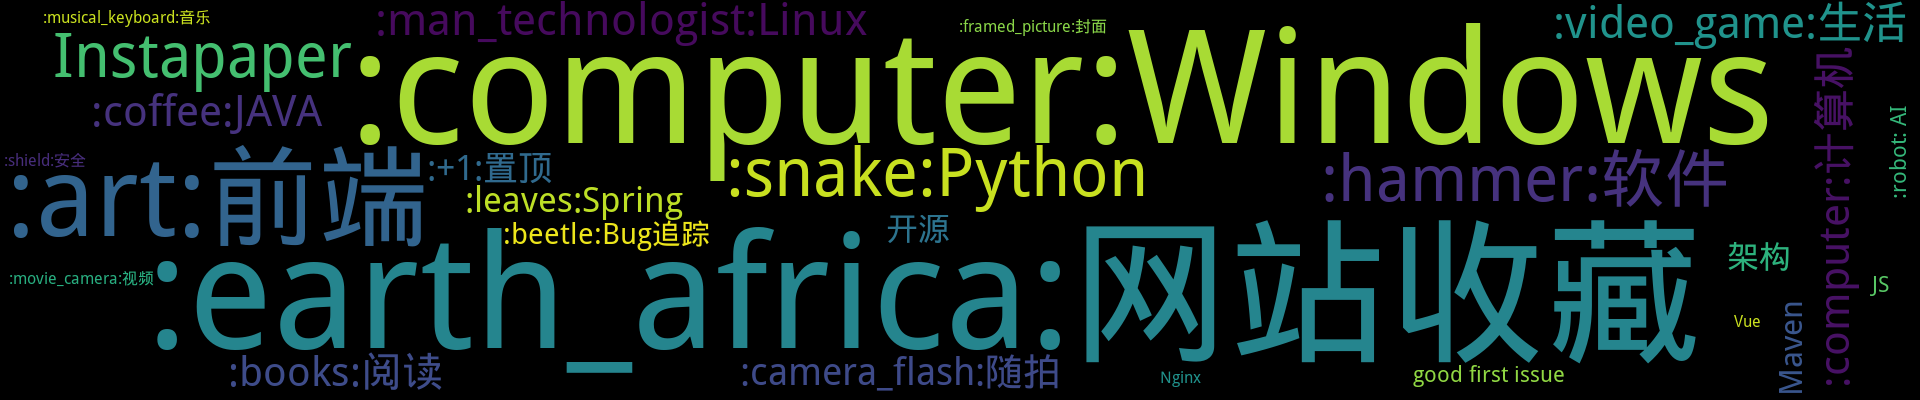
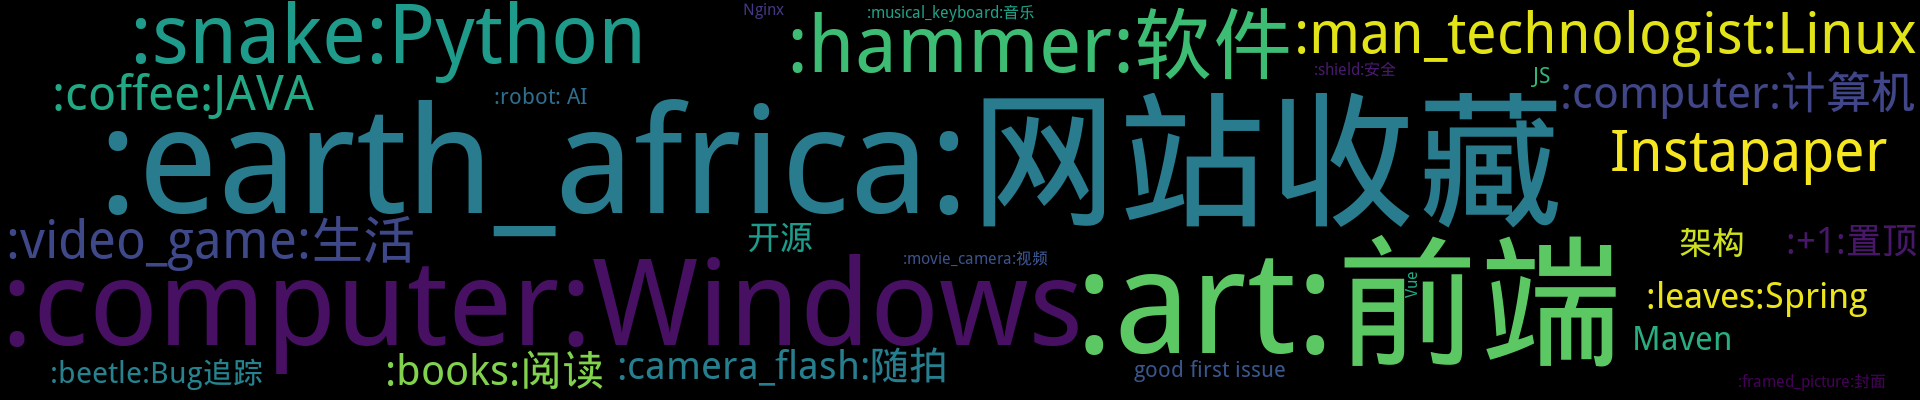
Update from Github Action

diff --git a/README.md b/README.md
@@ -3,7 +3,7 @@
 <p align='center'>
     <img src="https://badgen.net/badge/labels/27"/>
     <img src="https://badgen.net/github/issues/jwenjian/ghiblog"/>
-    <img src="https://badgen.net/badge/last-commit/2019-10-18 00:25:56"/>
+    <img src="https://badgen.net/badge/last-commit/2019-10-18 00:49:35"/>
     <img src="https://badgen.net/github/forks/jwenjian/ghiblog"/>
     <img src="https://badgen.net/github/stars/jwenjian/ghiblog"/>
     <img src="https://badgen.net/github/watchers/jwenjian/ghiblog"/>
@@ -132,9 +132,10 @@ Python爬虫保存美国农业部网站上7000+张高清水果油画【证件照
 </details>
 
 <details>
-<summary>:art:前端	<sup>14:newspaper:</sup></summary>
+<summary>:art:前端	<sup>15:newspaper:</sup></summary>
 
 - [15个必知的Vue指令](https://github.com/jwenjian/ghiblog/issues/120)  <sup>0 :speech_balloon:</sup>  	 
+- [[From Instapaper] : Animated Icons - 200 Free Icons](https://github.com/jwenjian/ghiblog/issues/117)  <sup>0 :speech_balloon:</sup>  	 
 - [日本邮政官网 - 印章生成器](https://github.com/jwenjian/ghiblog/issues/95)  <sup>0 :speech_balloon:</sup>  	 
 - [HTTP Content-type 对照表](https://github.com/jwenjian/ghiblog/issues/93)  <sup>0 :speech_balloon:</sup>  	 
 - [Permission denied when running npm install](https://github.com/jwenjian/ghiblog/issues/90)  <sup>0 :speech_balloon:</sup>  	 
@@ -247,8 +248,9 @@ Python爬虫保存美国农业部网站上7000+张高清水果油画【证件照
 </details>
 
 <details>
-<summary>:earth_africa:网站收藏	<sup>15:newspaper:</sup></summary>
+<summary>:earth_africa:网站收藏	<sup>16:newspaper:</sup></summary>
 
+- [[From Instapaper] : Animated Icons - 200 Free Icons](https://github.com/jwenjian/ghiblog/issues/117)  <sup>0 :speech_balloon:</sup>  	 
 - [AirPano.com: 360° 全景图片 + 视频展示世界各地美景](https://github.com/jwenjian/ghiblog/issues/106)  <sup>0 :speech_balloon:</sup>  	 
 - [Mixkit 发布免费可商用的艺术画与插图平台 - 小众软件](https://github.com/jwenjian/ghiblog/issues/101)  <sup>0 :speech_balloon:</sup>  	 
 - [ColouriseSG: 利用AI给黑白照片上色](https://github.com/jwenjian/ghiblog/issues/96)  <sup>0 :speech_balloon:</sup>  	 
@@ -309,10 +311,11 @@ Python爬虫保存美国农业部网站上7000+张高清水果油画【证件照
 </details>
 
 <details>
-<summary>:man_technologist:Linux	<sup>10:newspaper:</sup></summary>
+<summary>:man_technologist:Linux	<sup>11:newspaper:</sup></summary>
 
 - [Set yum proxy in CentOS](https://github.com/jwenjian/ghiblog/issues/121)  <sup>0 :speech_balloon:</sup>  	 
 - [top命令  实时显示进程动态  Linux命令大全(手册)](https://github.com/jwenjian/ghiblog/issues/119)  <sup>0 :speech_balloon:</sup>  	 
+- [[From Instapaper] : ubuntu系统插入优盘read-only file system - Jessica&jie - 博客园](https://github.com/jwenjian/ghiblog/issues/118)  <sup>0 :speech_balloon:</sup>  	 
 - [Docker配置HTTP/HTTPS代理](https://github.com/jwenjian/ghiblog/issues/88)  <sup>0 :speech_balloon:</sup>  	 
 - [vbox ubuntu虚拟机扩容方案 虚拟分配空间转换为实际分配空间](https://github.com/jwenjian/ghiblog/issues/87)  <sup>0 :speech_balloon:</sup>  	 
 - [在Ubuntu上安装nodejs、npm](https://github.com/jwenjian/ghiblog/issues/65)  <sup>1 :speech_balloon:</sup>  	 
